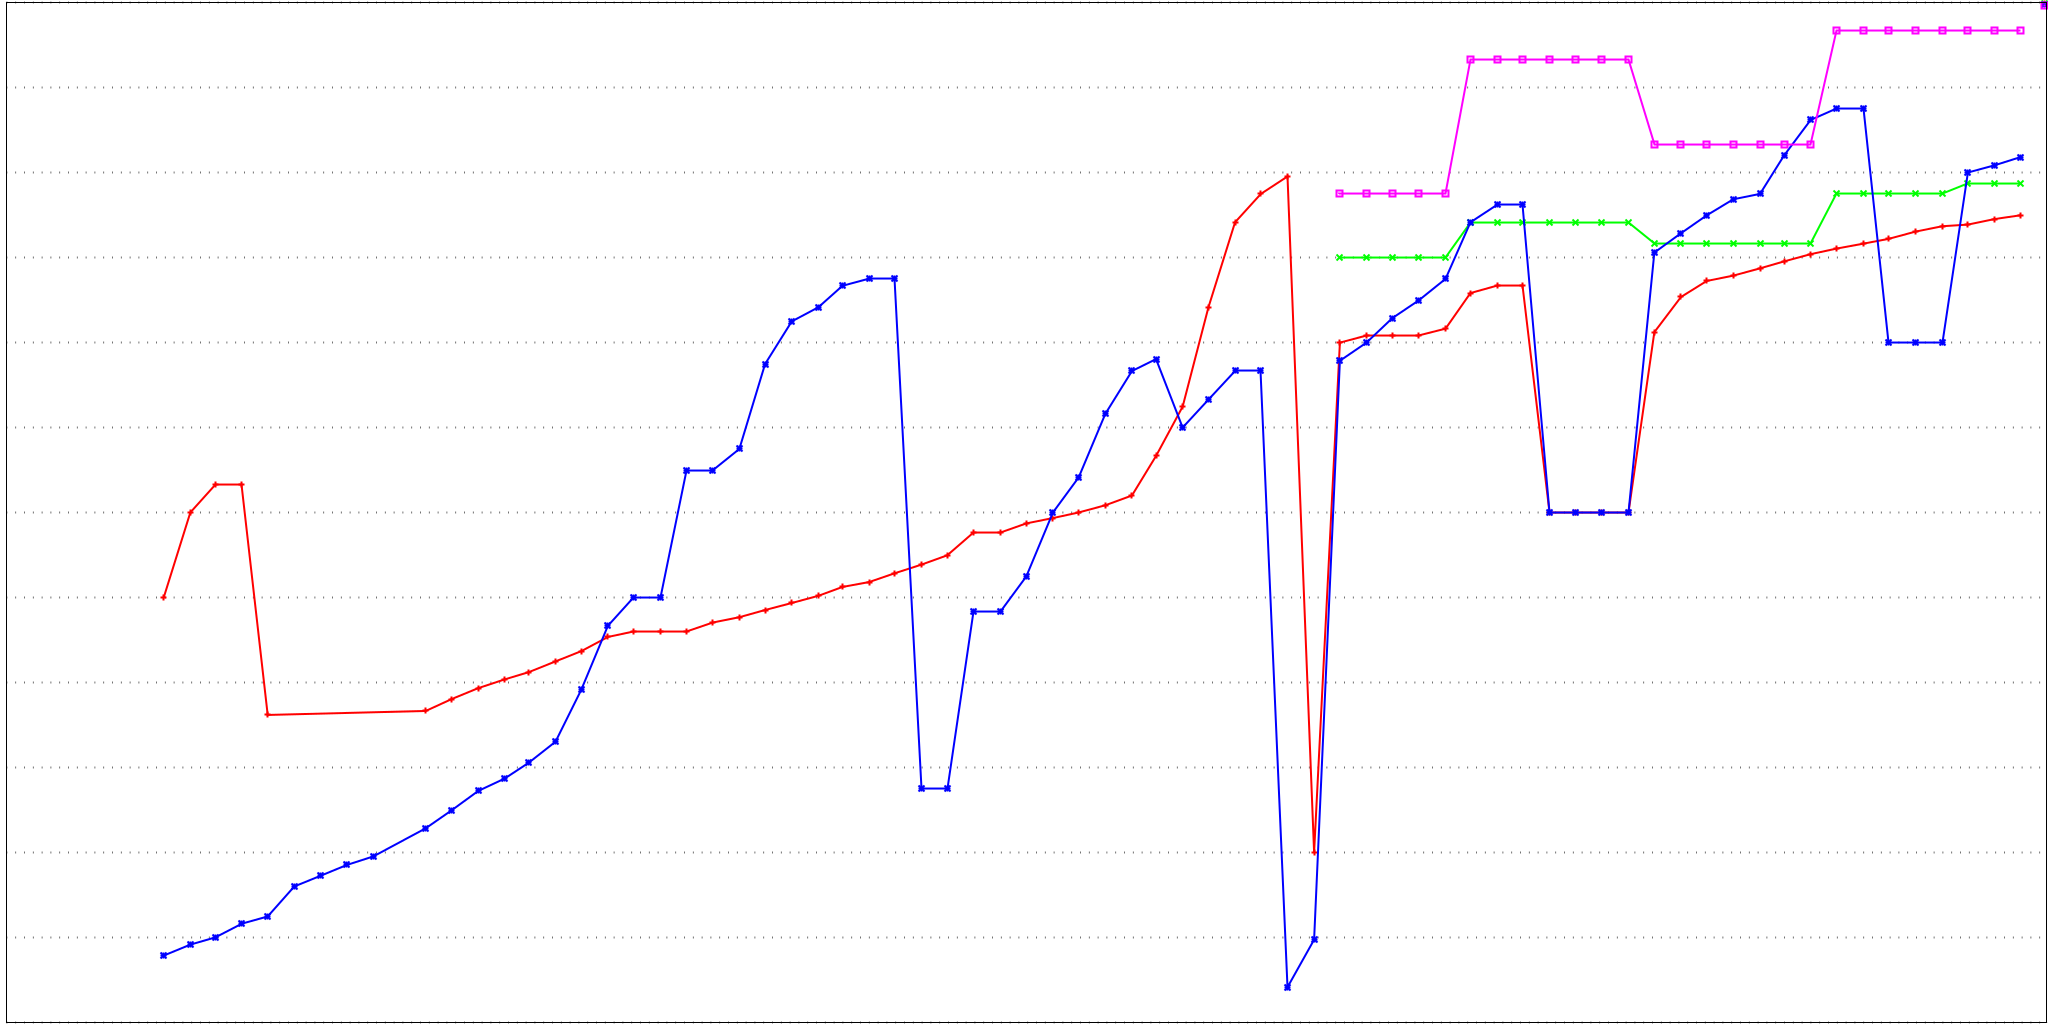
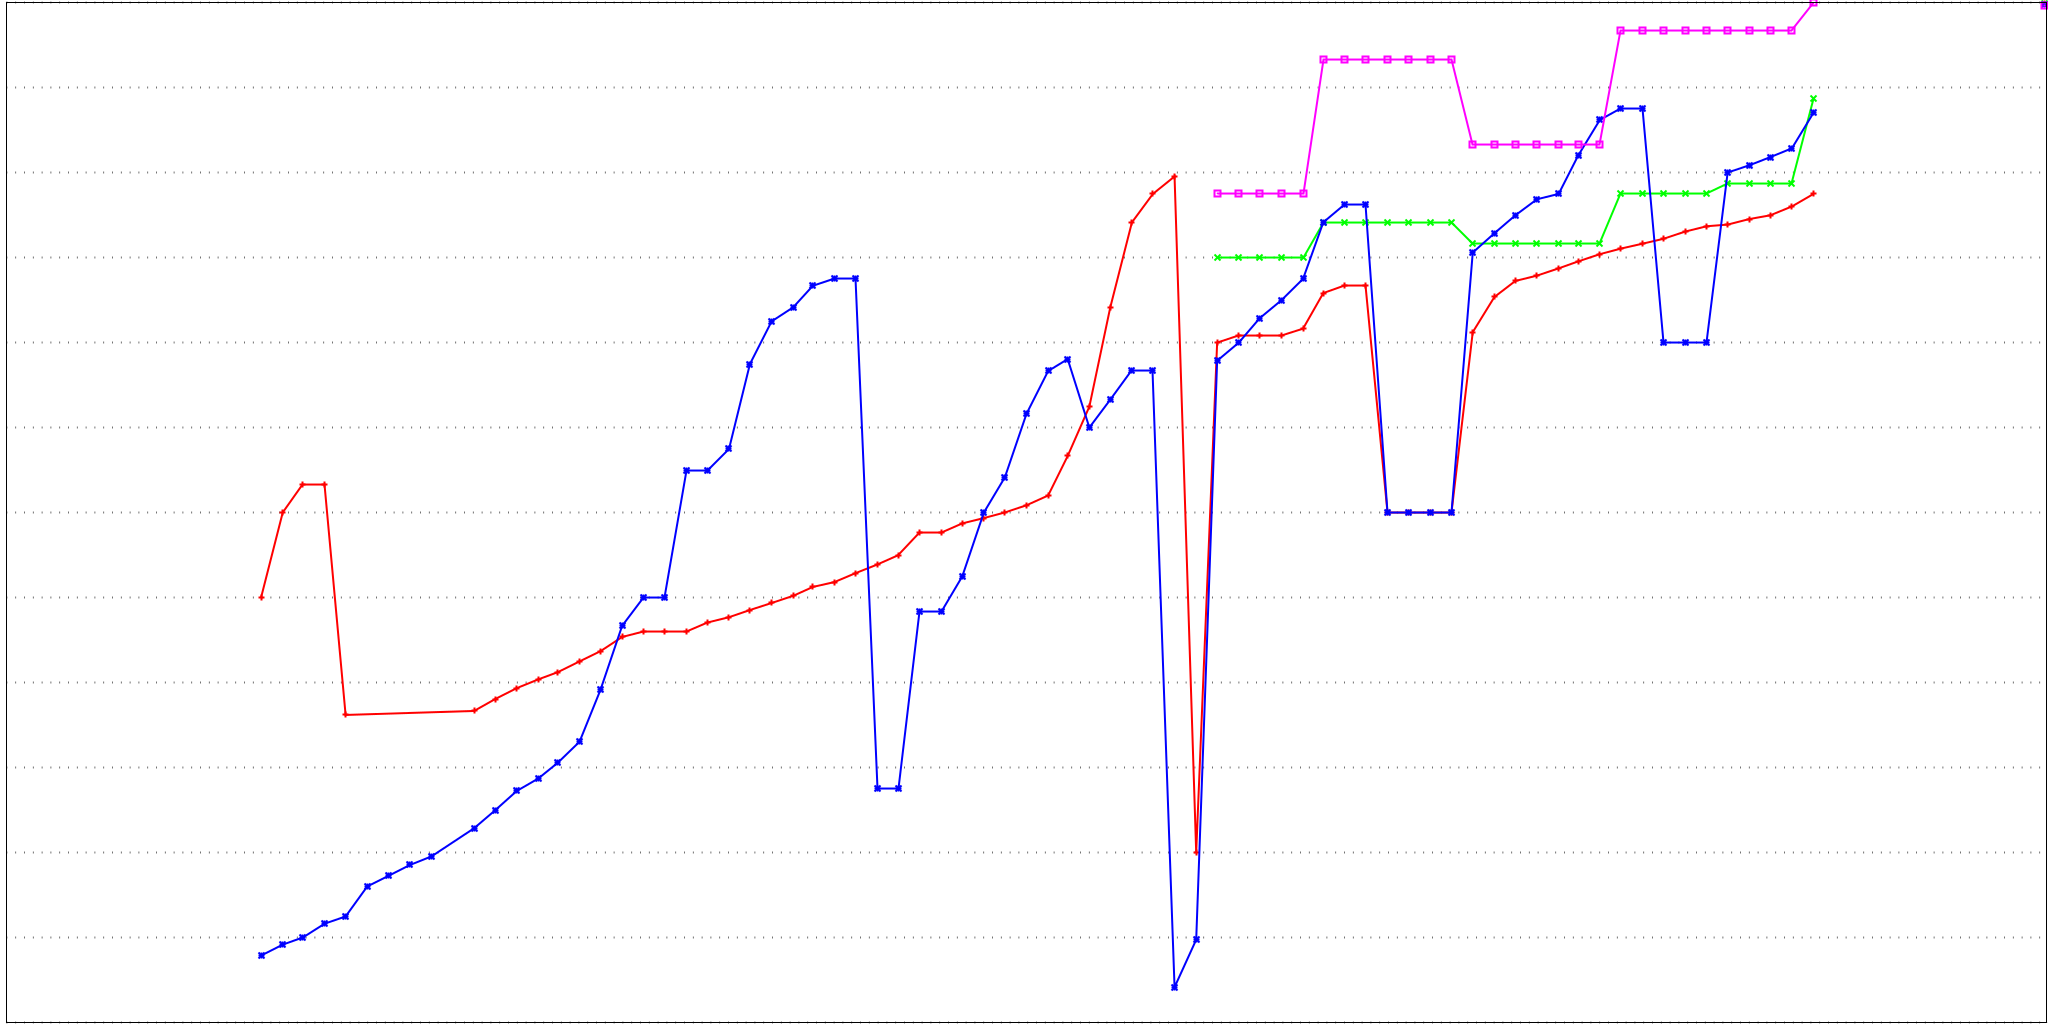
2018 Feb.

diff --git a/plotting/google-charts/charts.html b/plotting/google-charts/charts.html
@@ -90,6 +90,7 @@ data.addColumn('date', 'EB3 B');
 [new Date(2017, 10, 01), new Date(2013, 05, 15), new Date(2013, 10, 15), new Date(2014, 01, 01), new Date(2015, 08, 01), ],
 [new Date(2017, 11, 01), new Date(2013, 06, 01), new Date(2013, 10, 15), new Date(2014, 02, 08), new Date(2015, 08, 01), ],
 [new Date(2018, 00, 01), new Date(2013, 07, 08), new Date(2013, 10, 15), new Date(2014, 03, 15), new Date(2015, 08, 01), ],
+[new Date(2018, 01, 01), new Date(2013, 09, 01), new Date(2014, 10, 15), new Date(2014, 08, 15), new Date(2016, 00, 01), ],
 
   ]);
 
@@ -187,6 +188,7 @@ data.addColumn('date', 'EB3 B');
 [new Date(2017, 10, 01), new Date(2008, 09, 08), new Date(2009, 01, 08), new Date(2006, 09, 15), new Date(2008, 00, 01), ],
 [new Date(2017, 11, 01), new Date(2008, 10, 01), new Date(2009, 01, 08), new Date(2006, 09, 15), new Date(2008, 00, 01), ],
 [new Date(2018, 00, 01), new Date(2008, 10, 22), new Date(2009, 01, 08), new Date(2006, 10, 01), new Date(2008, 00, 01), ],
+[new Date(2018, 01, 01), new Date(2008, 11, 08), new Date(2009, 01, 08), new Date(2006, 11, 01), new Date(2008, 00, 01), ],
 
   ]);
 
@@ -284,6 +286,7 @@ data.addColumn('date', 'EB3 B');
 [new Date(2017, 10, 01), undefined, undefined, undefined, undefined, ],
 [new Date(2017, 11, 01), undefined, undefined, undefined, undefined, ],
 [new Date(2018, 00, 01), undefined, undefined, undefined, undefined, ],
+[new Date(2018, 01, 01), undefined, undefined, undefined, undefined, ],
 
   ]);
 
@@ -381,6 +384,7 @@ data.addColumn('date', 'EB3 B');
 [new Date(2017, 10, 01), undefined, undefined, new Date(2016, 00, 15), new Date(2016, 07, 01), ],
 [new Date(2017, 11, 01), undefined, undefined, new Date(2016, 00, 15), new Date(2016, 07, 01), ],
 [new Date(2018, 00, 01), undefined, undefined, new Date(2016, 01, 15), new Date(2016, 07, 01), ],
+[new Date(2018, 01, 01), undefined, undefined, new Date(2016, 02, 01), new Date(2016, 07, 01), ],
 
   ]);
 
